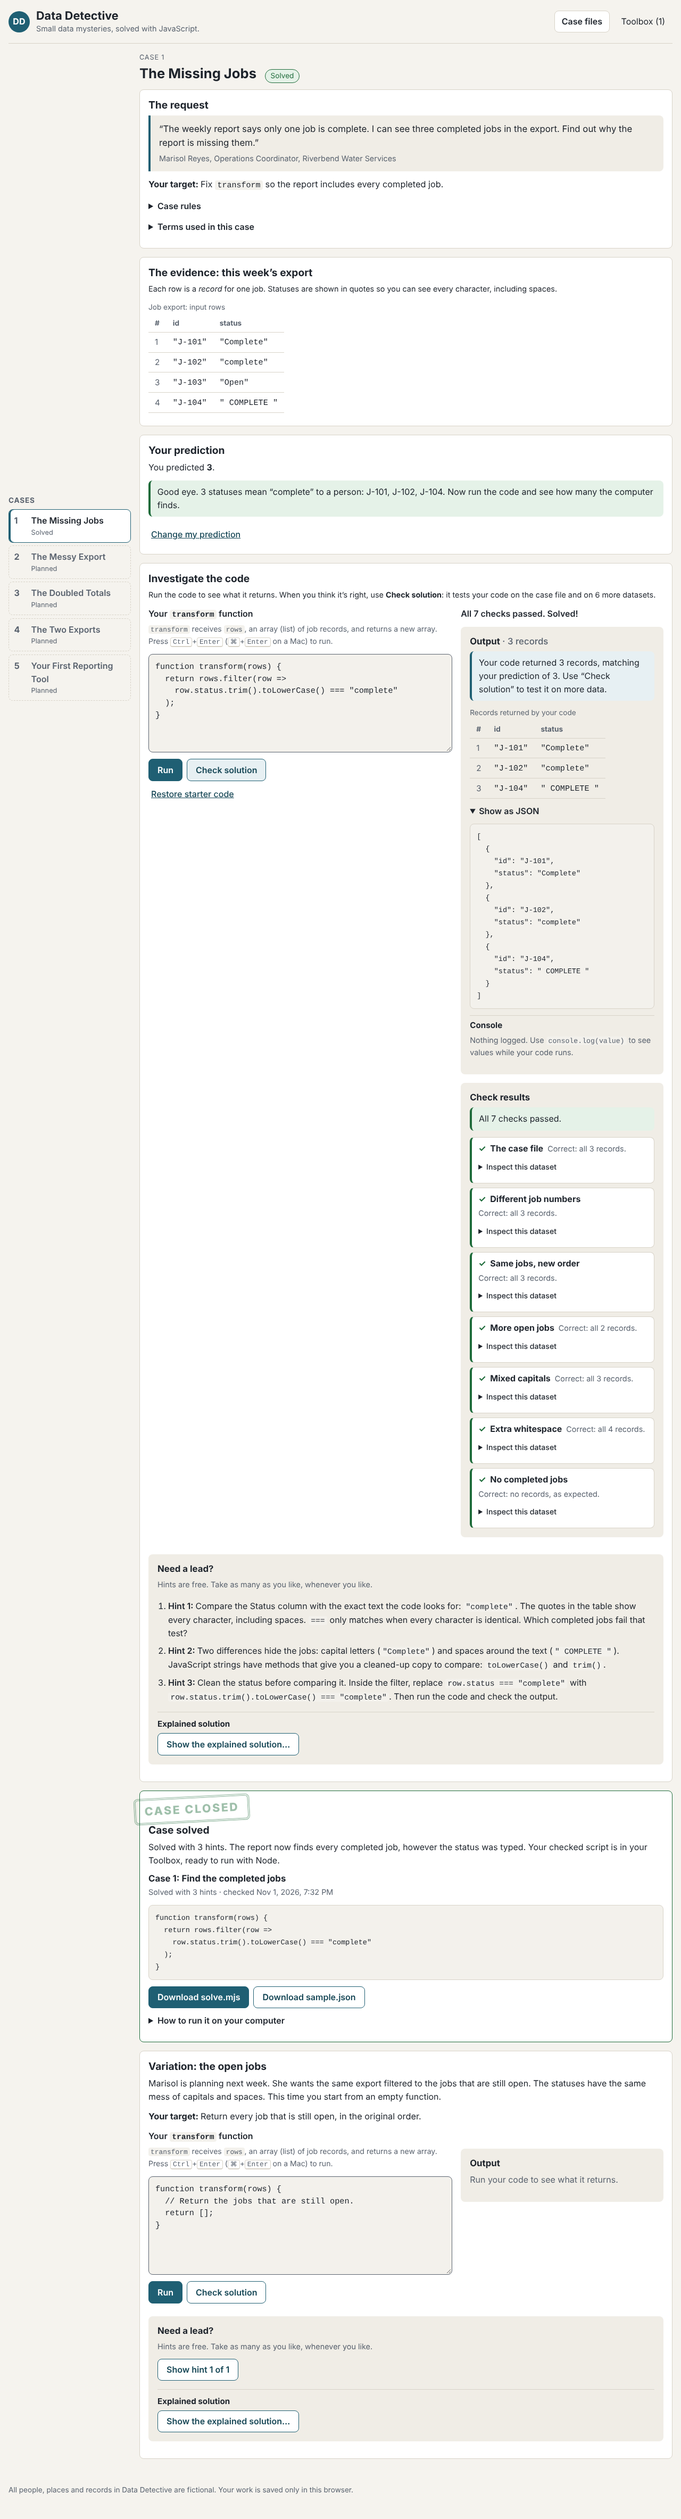
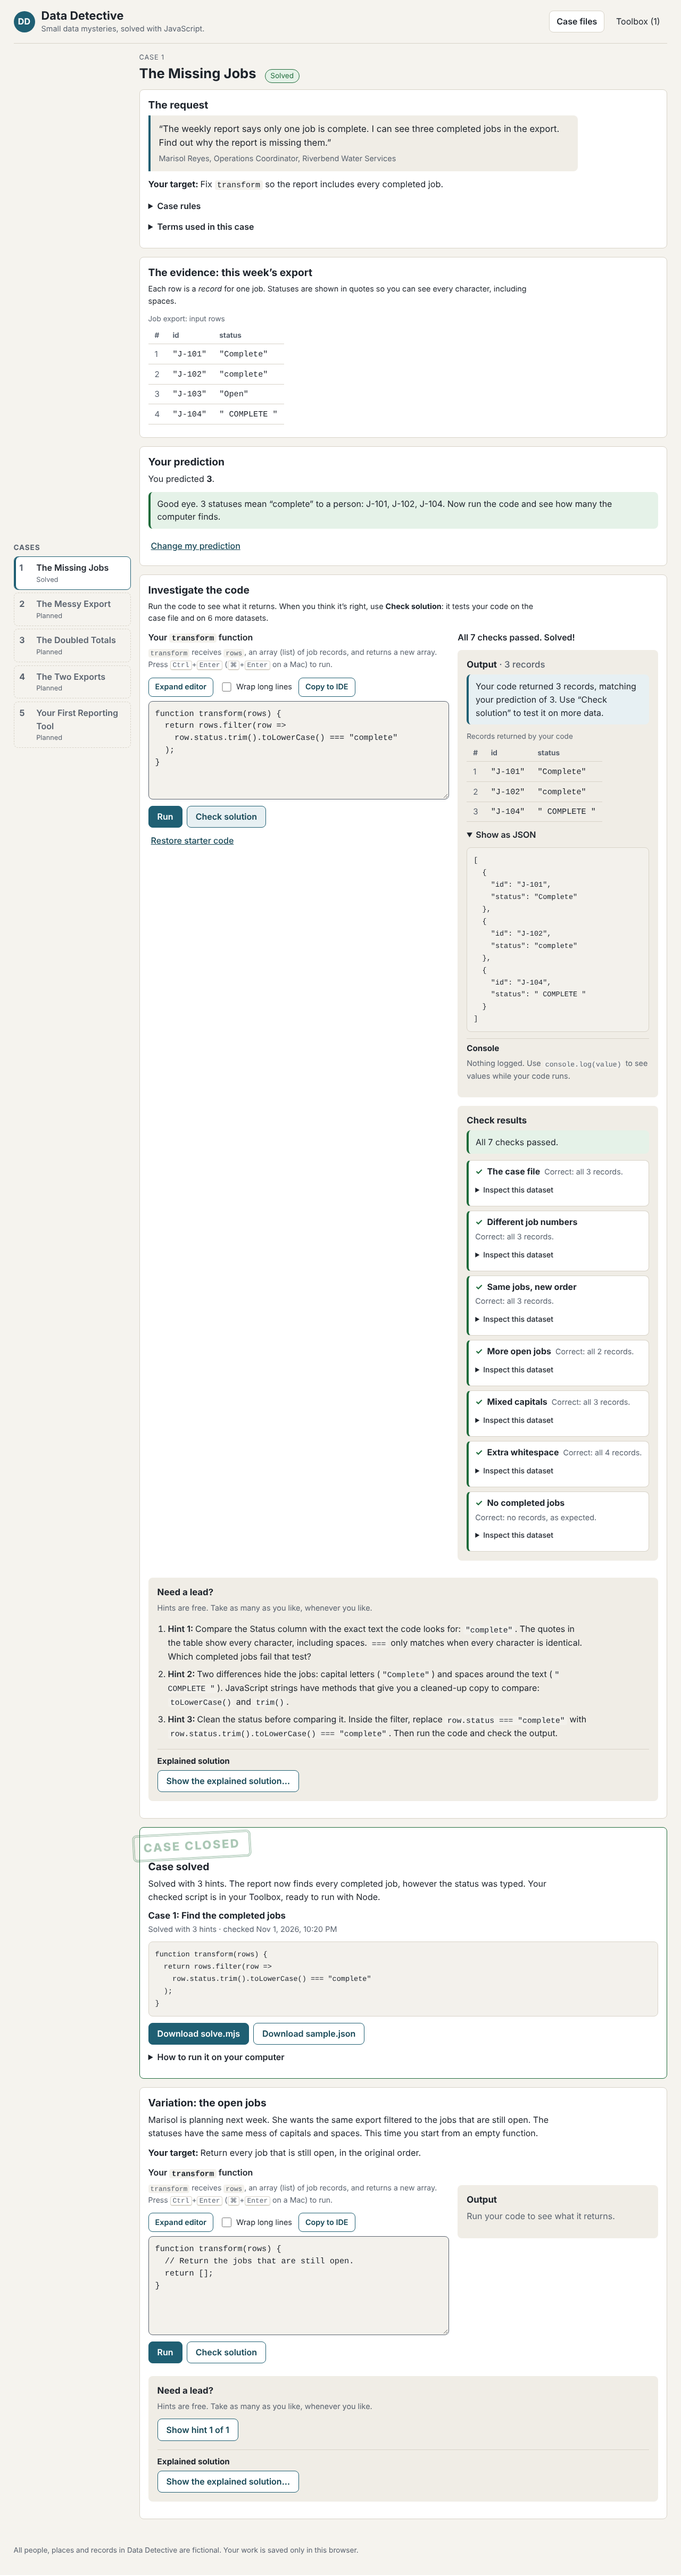
Make the app fill the browser viewport
- App shell uses the full width with modest outer padding and at least
  the viewport height; footer sits at the bottom
- Compact 220px case sidebar on desktop; workspace fills the rest, and
  request and evidence sit side by side from 1400px
- Running text capped near 80 characters per line so it stays readable
- Layout tests at 1920x1080, 1366x768 and 375x740: no horizontal
  overflow, no clipped controls, expanded editor, wrap and Copy to IDE
  work, progress survives reload; screenshots and docs updated

Claude-Session: https://claude.ai/code/session_01HJPyE8rfjt6eC78o97jwnb

diff --git a/tests/e2e/layout.spec.js b/tests/e2e/layout.spec.js
@@ -1,0 +1,93 @@
+// The app fills the viewport on wide screens and stays usable on phones.
+import { expect, test } from "@playwright/test";
+import { MAIN, SOLUTION, check, openFresh, output, run, setCode, workbench } from "./helpers.js";
+
+const screenshots = process.env.UPDATE_SCREENSHOTS ? "docs/screenshots" : null;
+
+const sizes = [
+  { name: "wide desktop", width: 1920, height: 1080, sidebar: true },
+  { name: "laptop", width: 1366, height: 768, sidebar: true },
+  { name: "phone", width: 375, height: 740, sidebar: false },
+];
+
+async function expectNoOverflow(page) {
+  expect(await page.evaluate(() => document.documentElement.scrollWidth <= window.innerWidth)).toBe(true);
+}
+
+async function expectInside(locator, width) {
+  const box = await locator.boundingBox();
+  expect(box, await locator.textContent()).not.toBeNull();
+  expect(box.x).toBeGreaterThanOrEqual(0);
+  expect(box.x + box.width).toBeLessThanOrEqual(width + 0.5);
+}
+
+for (const size of sizes) {
+  test.describe(size.name, () => {
+    test.use({ viewport: { width: size.width, height: size.height } });
+
+    test(`fills the ${size.width}px viewport without overflow or clipped controls`, async ({ page }) => {
+      await openFresh(page);
+      await expectNoOverflow(page);
+
+      // The shell spans the viewport width (modest padding) and at least its height.
+      const app = await page.locator(".app").boundingBox();
+      expect(app.width).toBeGreaterThanOrEqual(size.width - 1);
+      expect(app.height).toBeGreaterThanOrEqual(size.height - 1);
+      const mainBox = await page.locator("main").boundingBox();
+      expect(size.width - (mainBox.x + mainBox.width)).toBeLessThanOrEqual(40);
+
+      const sidebar = await page.getByRole("complementary", { name: "Cases" }).boundingBox();
+      if (size.sidebar) {
+        expect(sidebar.width).toBeLessThanOrEqual(230);
+        expect(mainBox.x).toBeGreaterThan(sidebar.x + sidebar.width);
+        expect(mainBox.width).toBeGreaterThanOrEqual(size.width - 300);
+      } else {
+        expect(mainBox.y).toBeGreaterThan(sidebar.y + sidebar.height - 1);
+      }
+
+      // Paragraphs stay readable even when the workspace is wide.
+      const request = await page.locator("blockquote").boundingBox();
+      expect(request.width).toBeLessThanOrEqual(80 * 16);
+
+      // Work in the editor, then expand it, wrap lines and copy.
+      await page.getByRole("button", { name: "Skip for now" }).click();
+      await setCode(page, SOLUTION);
+      await run(page);
+      const bench = workbench(page);
+      for (const name of ["Expand editor", "Copy to IDE", "Run", "Check solution"]) {
+        await expectInside(bench.getByRole("button", { name, exact: true }), size.width);
+      }
+      await expectInside(bench.getByLabel("Wrap long lines"), size.width);
+
+      const benchBox = await bench.boundingBox();
+      await bench.getByRole("button", { name: "Expand editor" }).click();
+      const editor = await page.getByTestId(`editor-${MAIN}`).boundingBox();
+      expect(editor.width).toBeGreaterThan(benchBox.width - 4);
+      expect((await output(page).boundingBox()).y).toBeGreaterThan(editor.y + editor.height);
+      await bench.getByLabel("Wrap long lines").check();
+      await bench.getByRole("button", { name: "Copy to IDE" }).click();
+      await expect(bench.getByTestId("copy-success").or(bench.getByTestId("copy-fallback"))).toBeVisible();
+      await expectNoOverflow(page);
+      await expect(page.getByTestId(`editor-${MAIN}`)).toHaveValue(SOLUTION);
+
+      await check(page);
+      await expect(page.getByTestId("check-summary")).toHaveText("All 7 checks passed.");
+      await bench.getByRole("button", { name: "Restore editor size" }).click();
+      await expectNoOverflow(page);
+      for (const name of ["Download solve.mjs", "Download sample.json"]) {
+        await expectInside(page.getByTestId("solved-panel").getByRole("button", { name }), size.width);
+      }
+      if (screenshots && size.sidebar) {
+        await page.evaluate(() => window.scrollTo(0, 0));
+        await page.screenshot({ path: `${screenshots}/${size.width}-wide.png` });
+      }
+
+      // Normal vertical scrolling still works, and progress survives a reload.
+      await page.evaluate(() => window.scrollTo(0, document.body.scrollHeight));
+      expect(await page.evaluate(() => window.scrollY)).toBeGreaterThan(0);
+      await page.reload();
+      await expect(page.getByTestId(`editor-${MAIN}`)).toHaveValue(SOLUTION);
+      await expect(page.getByTestId("case-status")).toHaveText("Solved");
+    });
+  });
+}

diff --git a/src/styles.css b/src/styles.css
@@ -153,10 +153,30 @@ main:focus {
 
 /* Layout */
 
+/* The app fills the viewport: full width with modest outer padding, and at
+   least the viewport's height (the footer sits at the bottom). */
 .app {
-  max-width: 1280px;
-  margin: 0 auto;
-  padding: 0 1rem 2rem;
+  display: flex;
+  flex-direction: column;
+  min-height: 100vh;
+  min-height: 100dvh;
+  width: 100%;
+  padding: 0 clamp(0.75rem, 2vw, 2rem) 1.5rem;
+}
+.app > .layout {
+  flex: 1 0 auto;
+}
+
+/* Keep running text readable without narrowing the workspace. */
+.case p:not(.feedback):not(.notice):not(.status-line):not(.eyebrow):not(.badge),
+.case blockquote,
+.case .rules,
+.case .glossary,
+.case .hint-list,
+.case .solution-body > ul,
+.case .export-help,
+#toolbox-title ~ p {
+  max-width: 80ch;
 }
 
 .site-header {
@@ -229,7 +249,7 @@ main:focus {
 
 @media (min-width: 900px) {
   .layout {
-    grid-template-columns: 230px minmax(0, 1fr);
+    grid-template-columns: 220px minmax(0, 1fr);
     align-items: start;
   }
   .case-list {
@@ -240,6 +260,18 @@ main:focus {
 
 main {
   min-width: 0;
+}
+
+/* Wide screens: the request and the evidence sit side by side. */
+.case-brief {
+  display: grid;
+  gap: 0 1rem;
+}
+@media (min-width: 1400px) {
+  .case-brief {
+    grid-template-columns: minmax(0, 3fr) minmax(0, 2fr);
+    align-items: stretch;
+  }
 }
 
 .site-footer {

diff --git a/src/components/CaseView.jsx b/src/components/CaseView.jsx
@@ -68,6 +68,7 @@ export function CaseView({ caseDef, caseState, updateCase, exerciseStates, updat
         </p>
       </header>
 
+      <div className="case-brief">
       <section className="panel request" aria-labelledby="request-title">
         <h3 id="request-title">The request</h3>
         <blockquote>
@@ -115,6 +116,7 @@ export function CaseView({ caseDef, caseState, updateCase, exerciseStates, updat
         </p>
         <RecordTable rows={main.rows} caption="Job export: input rows" />
       </section>
+      </div>
 
       <Prediction
         caseDef={caseDef}

diff --git a/docs/STATUS.md b/docs/STATUS.md
@@ -1,6 +1,6 @@
 # Status
 
-Last updated: 1 November 2026 (export fixes, expandable editor and Copy to IDE added after the first Milestone 1 commit).
+Last updated: 1 November 2026 (export fixes, expandable editor, Copy to IDE and full-viewport layout added after the first Milestone 1 commit).
 
 ## Milestones
 
@@ -13,6 +13,8 @@ Last updated: 1 November 2026 (export fixes, expandable editor and Copy to IDE a
 | 5 | Your First Reporting Tool | Planned |
 
 ## Recent changes
+
+- **Full-viewport layout.** The app shell now uses the whole browser width, with modest outer padding (`clamp(0.75rem, 2vw, 2rem)`), and at least the viewport's height. On desktop (900 px and up), the case list is a compact 220 px left sidebar and the workspace fills the rest. At 1400 px and up, the request and the evidence sit side by side. Running text is capped at about 80 characters per line, so it stays readable without narrowing the workspace. Editor, results and tables use the full width. Phones keep the single-column layout. Tests: `tests/e2e/layout.spec.js`.
 
 - **Expand editor.** Each workbench (main case and variation) has an "Expand editor" button. It gives the editor the full workbench width and a taller area (at least 28rem or 60% of the screen), with results underneath. "Restore editor size" switches back. The draft, saved progress and current results are untouched, and Run, Check solution and Stop stay available. The editor stays vertically resizable. A "Wrap long lines" checkbox changes only the display (`wrap="soft"`); the code is never changed. Tests: `tests/e2e/editor.spec.js`.
 - **Copy to IDE.** Available before solving, in both workbenches. It copies a standalone `challenge.js`, built by `src/export/challengeFile.js`, containing:
@@ -50,7 +52,7 @@ Run in the cloud session on 1 November 2026 with Node.js v24.22.1 and npm 11.19.
 | `npm run lint` (ESLint 10) | Pass, no warnings |
 | `npm test` (Vitest 5) | 6 files, 66 tests passed |
 | `npm run build` (Vite 8) | Pass |
-| `npm run test:e2e` (Playwright 1.63, headless Chromium build 1243, production build via `vite preview`) | 22 tests passed |
+| `npm run test:e2e` (Playwright 1.63, headless Chromium build 1243, production build via `vite preview`) | 25 tests passed |
 
 What the tests cover:
 
@@ -62,6 +64,15 @@ What the tests cover:
 - **Acceptance 6:** reload restores draft, prediction, hints and solve. An edited draft is flagged as needing a new check, even after reload. Malformed JSON and wrong field types don't break startup. Unit tests cover storage that throws or is unavailable.
 - **Acceptance 7:** generated scripts run in Node 24.22.1 (unit and browser tests). They give the same output as the transformation on all 7 datasets, save to a file, accept a byte-order mark, keep learner code with quotes, backticks and `</script>` intact, and give clear errors for a missing argument, missing file, invalid JSON, a non-array and a thrown error. Learner code is isolated in its own function: helpers named `fs`, `runScript` or `fail` work, and `console` output (top level or inside `transform`) goes to standard error, so standard output and saved files stay valid JSON. Both cases are covered by unit tests (which fail on the earlier wrapper) and by browser tests: the solutions pass all 7 checks, and their downloaded scripts print the same records as the browser. Also run once by hand with Node 22.23.4: correct output and the missing-file message.
 - **Editor and Copy to IDE:** expanding keeps the draft, results and saved progress, puts results under the editor and keeps Run, Check and Stop working. Wrap doesn't change the code. The keyboard works (Space for the checkbox, Enter for buttons, focus stays on the toggle). At 375 px the controls fit with no sideways scroll. The copied file runs in Node, preserves the draft and the exact rows, and leaves runs, checks and saved data unchanged. The variation copies open-jobs content without the solution. When the clipboard is blocked, the fallback text is focused and fully selected.
+- **Layout:** checked at 1920×1080, 1366×768 and 375×740. In each case:
+  - the app spans the viewport width and at least its height
+  - the sidebar is narrow on desktop and stacks on the phone
+  - there is no page-level horizontal overflow before or after expanding the editor, wrapping lines or copying
+  - Expand, Wrap, Copy to IDE, Run, Check and the download buttons fit inside the viewport
+  - the expanded editor fills the workbench, with results underneath
+  - vertical scrolling works, and the draft and progress survive a reload
+
+  Screenshots: `docs/screenshots/1920-wide.png` and `1366-wide.png`.
 - **Acceptance 8:** keyboard-only flow (Tab to fields, Enter to submit, Ctrl+Enter to run, Tab and Enter to check) with a 3 px solid focus outline. At 375 px wide: no horizontal scroll, Run, Check and the download buttons fit on screen, and the reduced-motion stamp has no animation. Desktop (1280 px) and phone screenshots are in [screenshots/](screenshots/).
 - The development server (`npm run dev`) was also checked once: the runner works there, with no page errors.
 

diff --git a/README.md b/README.md
@@ -4,11 +4,11 @@ A friendly learning app for writing useful workplace data scripts in JavaScript.
 
 You play a data detective at a fictional water utility, Riverbend Water Services. Each case starts with a request from a colleague and a small dataset. You inspect the data, predict the answer, fix a real JavaScript function, run it, check it against more data, and finish with a Node script you can keep.
 
-The editor can be expanded to full width, with optional word wrap. **Copy to IDE** copies the exercise as a runnable `challenge.js`, so learners can work in VS Code, VSCodium or another IDE and paste their solution back.
+The app fills the browser window, with the case list as a compact sidebar on desktop. The editor can be expanded to full width, with optional word wrap. **Copy to IDE** copies the exercise as a runnable `challenge.js`, so learners can work in VS Code, VSCodium or another IDE and paste their solution back.
 
 Milestone 1 (Case 1, **The Missing Jobs**) is complete. Cases 2–5 are planned; see [docs/PRODUCT.md](docs/PRODUCT.md) and [docs/STATUS.md](docs/STATUS.md).
 
-![Case 1 after it has been solved](docs/screenshots/desktop-solved.png)
+![Case 1 on a wide screen](docs/screenshots/1920-wide.png)
 
 ## Run it locally
 
